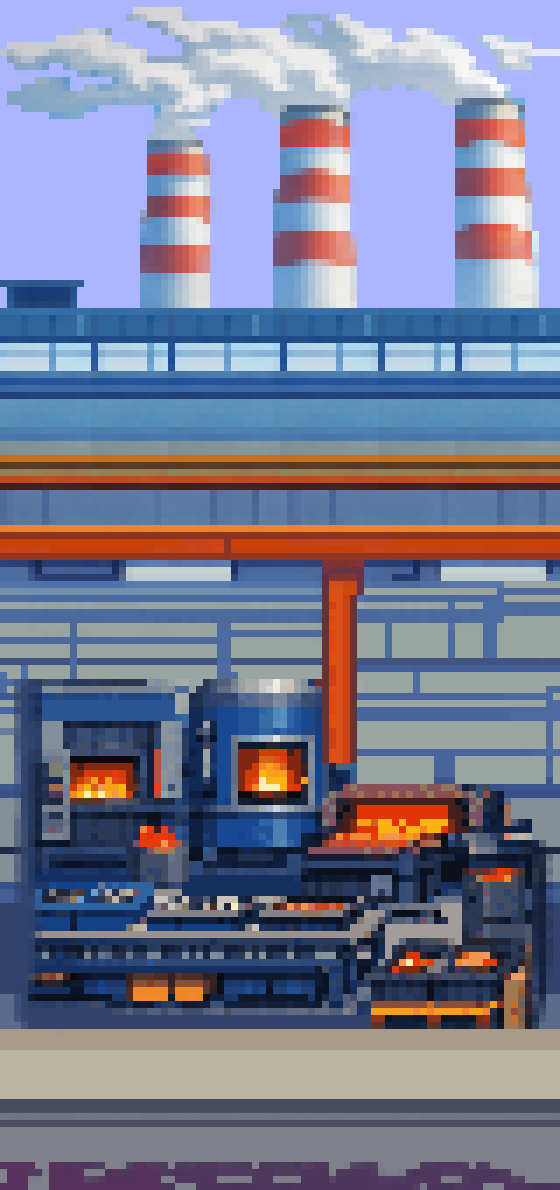
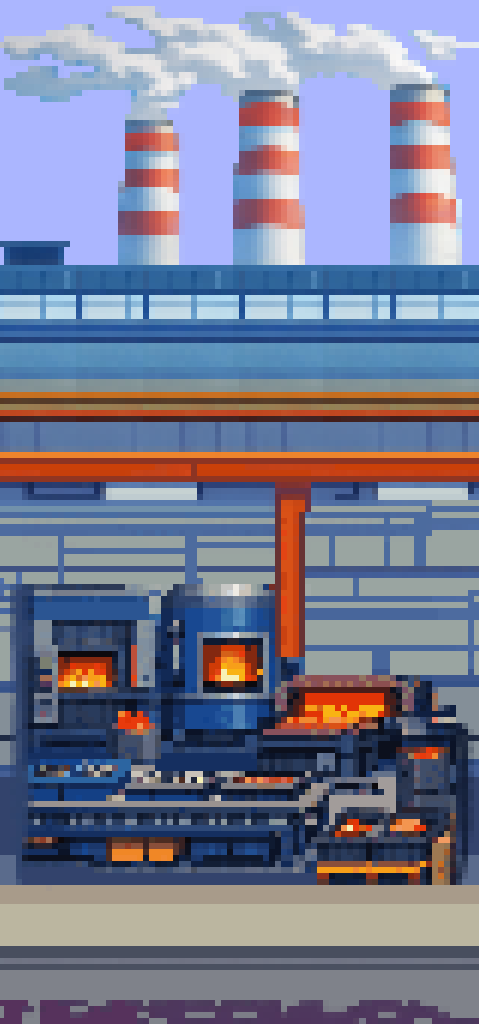
cenario concertado

diff --git a/core/src/main/java/com/osbarnabe/workbot/GameScreen.java b/core/src/main/java/com/osbarnabe/workbot/GameScreen.java
@@ -58,7 +58,7 @@ public class GameScreen implements Screen {
     private float roboX;
     private float roboY;
     private final float tamanhoRobo  = 330f;
-    private final float velocidadeRobo = 2000f;
+    private final float velocidadeRobo = 400f;
 
     float larguraJanela = Gdx.graphics.getWidth();
     float alturaJanela  = Gdx.graphics.getHeight();
@@ -235,14 +235,14 @@ public class GameScreen implements Screen {
         roboY = inicioY;
 
         // Porta 1 → leva ao Puzzle 1 (sorting de itens)
-        porta1 = new Porta(2800f, 0f, 150f, alturaJanela - 259f);
+        porta1 = new Porta(2750f, 0f, 150f, alturaJanela - 259f);
         // Porta 2 → leva ao Puzzle 2 (Flappy Bird)
-        porta2 = new Porta(5200f, 0f, 150f, alturaJanela - 259f);
+        porta2 = new Porta(5100f, 0f, 150f, alturaJanela - 259f);
     }
 
-    private boolean pertoDoNPC(float npcX) {
+    private boolean pertoDoNPC(float npcX, float offsetX) {
         float centroRobo = roboX + (tamanhoRobo / 2f);
-        float centroNPC = npcX + (-250f / 2f); // largura do NPC
+        float centroNPC = npcX + offsetX;
 
         return Math.abs(centroRobo - centroNPC) < raioInteracao;
     }
@@ -297,7 +297,7 @@ public class GameScreen implements Screen {
 
                 }
 
-                else if (pertoDoNPC(npc1X)) {
+                else if (pertoDoNPC(npc1X, -180f)) {
                     if (!dialogoAtivo) {
 
                         if (!jogo.npc1Completo ||
@@ -309,7 +309,7 @@ public class GameScreen implements Screen {
                     }
                 }
 
-                else if (pertoDoNPC(npc3X)) {
+                else if (pertoDoNPC(npc3X, 400f)) {
 
                     if (dialogoNPC3) {
 
@@ -467,10 +467,10 @@ public class GameScreen implements Screen {
 
         // Trabalhadores animados
         batch.draw(animacaoTrabalhador2.getKeyFrame(elapsedTime, true), 3270, 210, 260, 260); // <-- Moises da silva santos junior ndv??
-        batch.draw(animacaoTrabalhador3.getKeyFrame(elapsedTime, true), 4170, 170, 380, 380);
+        batch.draw(animacaoTrabalhador3.getKeyFrame(elapsedTime, true), 4570, 170, 380, 380);
 
         // BOTOES E PONTO DE EXCLAMAÇÃO
-        if (pertoDoNPC(npc1X)) {
+        if (pertoDoNPC(npc1X, -180f)) {
 
             TextureRegion frameBotao = animacaoBotao.getKeyFrame(elapsedTime, true);
 
@@ -502,7 +502,7 @@ public class GameScreen implements Screen {
             float largura = frameBotao.getRegionWidth() * escala;
             float altura  = frameBotao.getRegionHeight() * escala;
 
-            float x = porta1.x + (porta1.largura / 2f) - (largura / 2f) - 100f;
+            float x = porta1.x + (porta1.largura / 2f) - (largura / 2f) - 50f;
             float y = 520f;
 
             batch.draw(frameBotao, x, y, largura, altura);
@@ -517,7 +517,7 @@ public class GameScreen implements Screen {
             float largura = frameBotao.getRegionWidth() * escala;
             float altura  = frameBotao.getRegionHeight() * escala;
 
-            float x = porta2.x + (porta2.largura / 2f) - (largura / 2f) - 45;
+            float x = porta2.x + (porta2.largura / 2f) - (largura / 2f) - 0;
             float y = 520f;
 
             batch.draw(frameBotao, x, y, largura, altura);
@@ -568,7 +568,7 @@ public class GameScreen implements Screen {
         }
 
         // BOTÃO DE INTERAÇÃO NPC3
-        if (pertoDoNPC(npc3X)) {
+        if (pertoDoNPC(npc3X, 400f)) {
 
             // 🔘 BOTÃO (continua normal)
             TextureRegion frameBotao = animacaoBotao.getKeyFrame(elapsedTime, true);
@@ -577,7 +577,7 @@ public class GameScreen implements Screen {
             float largura = frameBotao.getRegionWidth() * escala;
             float altura  = frameBotao.getRegionHeight() * escala;
 
-            float x = 4150 + (100f / 2f) - (largura / 2f);
+            float x = 4780 + (100f / 2f) - (largura / 2f);
             float y = 510;
 
             batch.draw(frameBotao, x, y, largura, altura);
@@ -586,7 +586,7 @@ public class GameScreen implements Screen {
 
             // ❗ SÓ aparece se NUNCA falou com o NPC
             batch.draw(animacaoPonto2.getKeyFrame(elapsedTime, true),
-                4230, 470, 150, 150);
+                4755, 470, 150, 150);
         }
 
         // Robô
